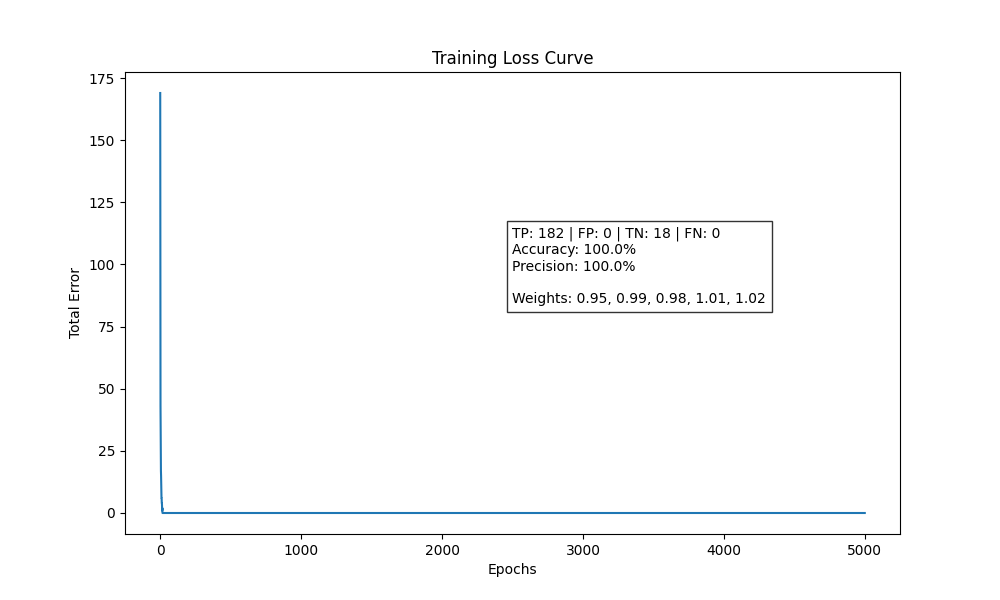
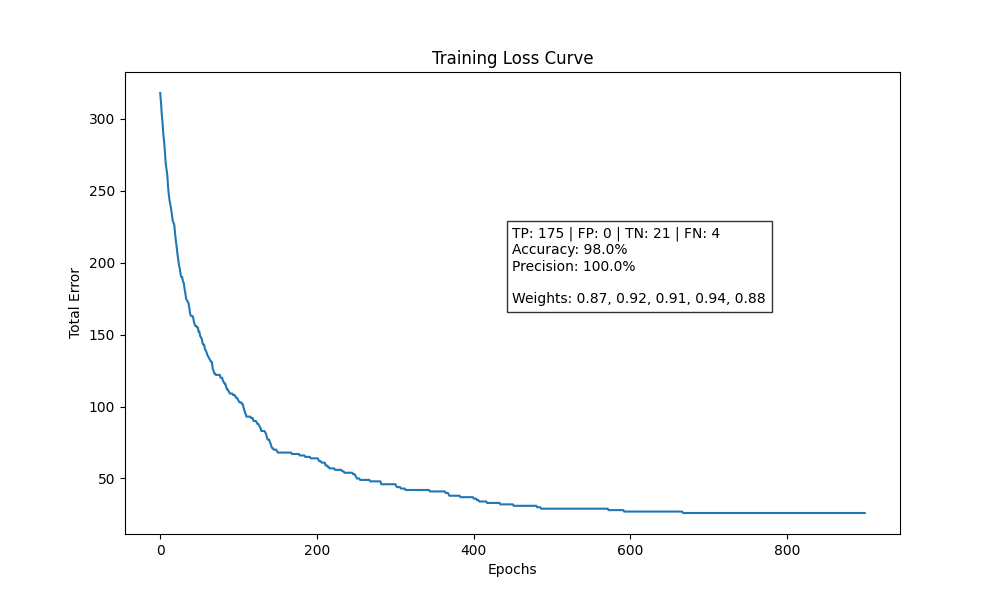
weight reviews

diff --git a/Sandbox/simple_weighted_model/model.py b/Sandbox/simple_weighted_model/model.py
@@ -13,10 +13,11 @@ testing_data = raw_data[800:]
 
 #Parameters
 weights = [0.5 for _ in range(5)]
-step = 0.00001
-epochs = 5000
+step = 0.0000001
+epochs = 900
 threshold = 500 
 error_list = []
+weight_history = []
 
 #Training Loop
 for i in range(epochs):
@@ -31,6 +32,7 @@ for i in range(epochs):
             weights[j] += error * x[j] * current_step
 
     error_list.append(total_error)
+    weight_history.append(list(weights))
 
 #Evaluation
 TP, FP, TN, FN = 0, 0, 0, 0
@@ -57,3 +59,15 @@ plt.text(0.5, 0.5, stats_text, transform=plt.gca().transAxes,
 
 plt.savefig("loss_curve_neural_model.png")
 print("Loss curve saved as 'loss_curve_neural_model.png'. Weights converged to:", formatted_weights)
+plt.figure(figsize=(10, 6))
+# Transpose weight_history to get a list of values per weight over time
+for j in range(5):
+    plt.plot([w[j] for w in weight_history], label=f'Weight {j+1}')
+
+plt.title("Weight Adjustment Over Time")
+plt.xlabel("Epochs")
+plt.ylabel("Weight Value")
+plt.legend()
+plt.grid(True, alpha=0.3)
+plt.savefig("weight_convergence.png")
+print("Weight convergence plot saved as 'weight_convergence.png'.")
